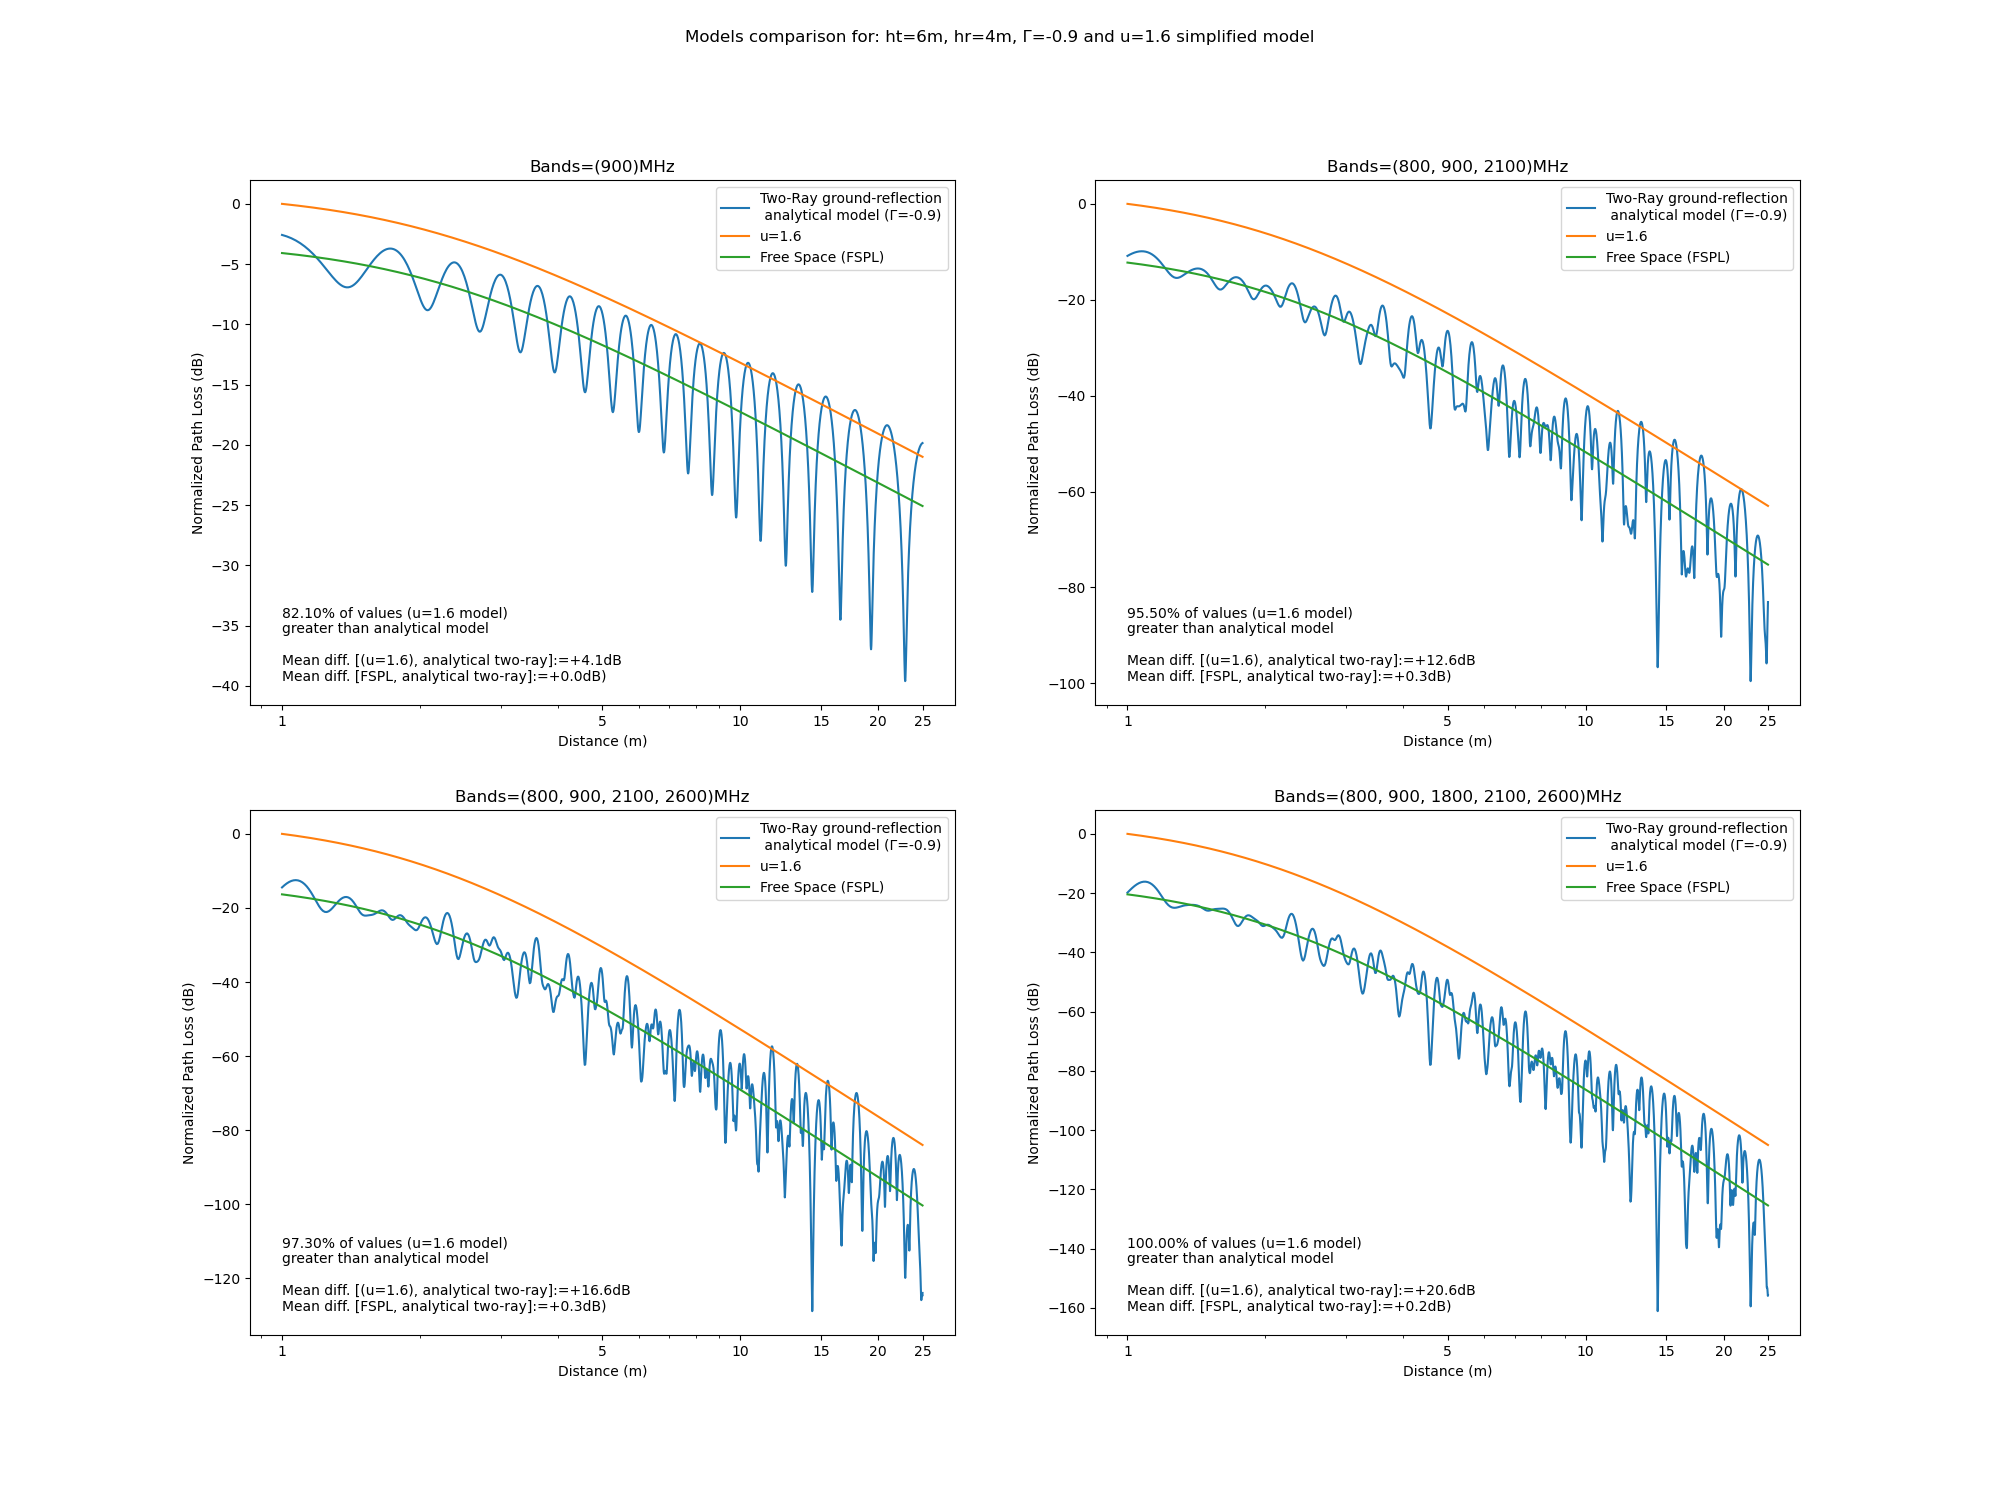
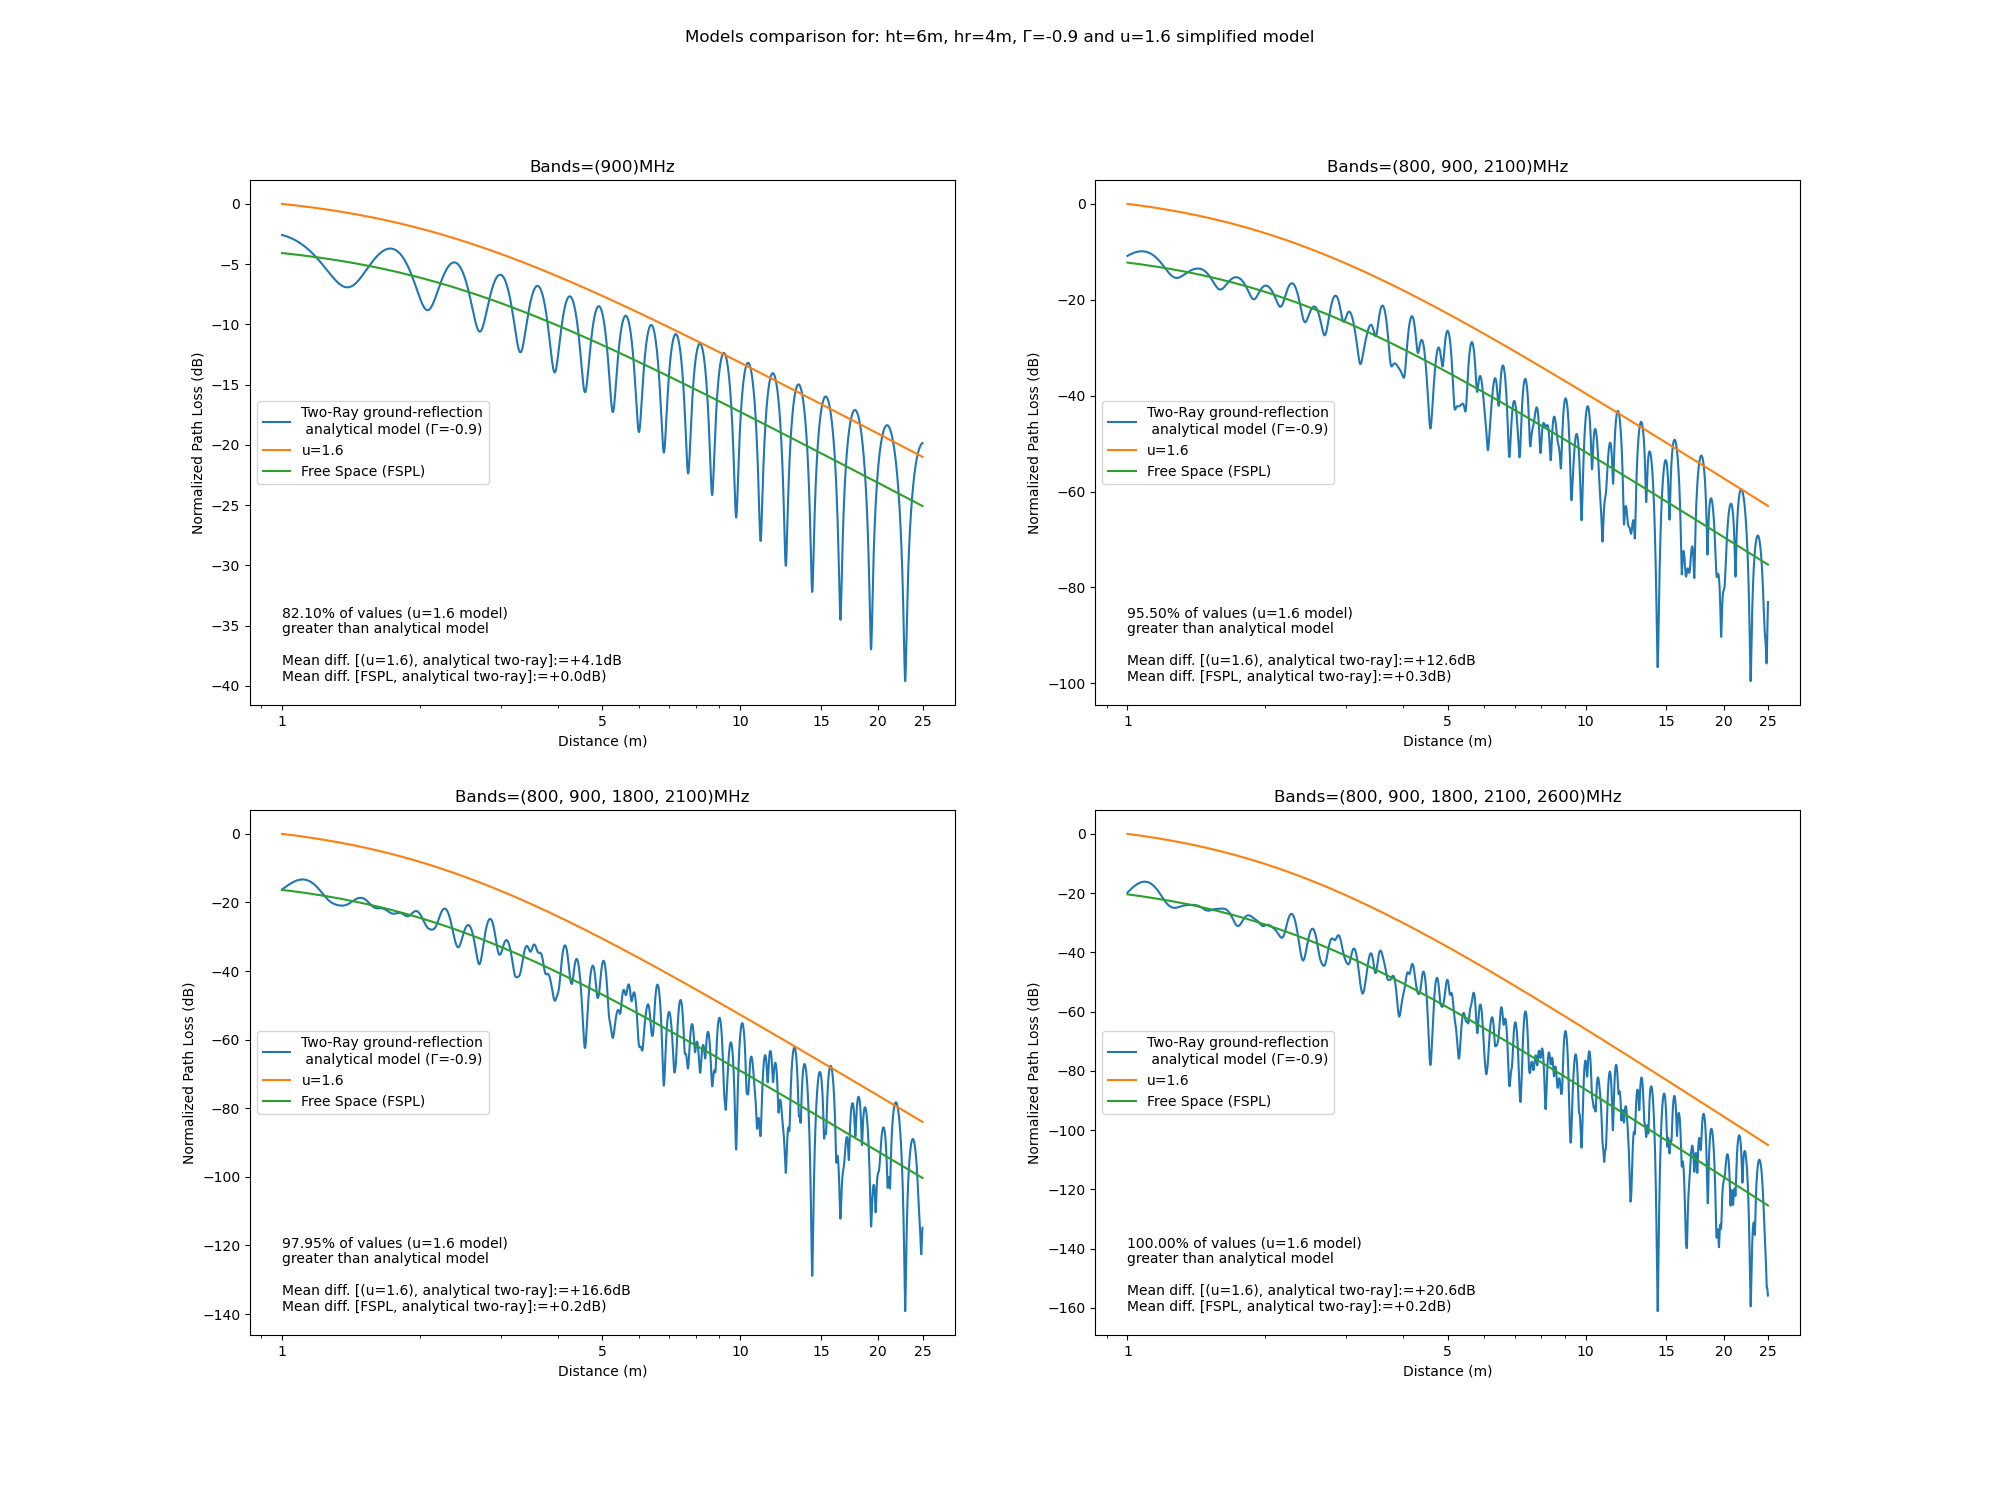
moved legend to fixed position center left

diff --git a/tworaymodel.py b/tworaymodel.py
@@ -5,7 +5,7 @@ import os
 # 4 set of bands to simulate (4 subplots)
 b1 = ['900']
 b2 = ['800', '900', '2100']
-b3 = ['800', '900', '2100', '2600']
+b3 = ['800', '900', '1800', '2100']
 b4 = ['800', '900', '1800', '2100', '2600']
 
 # u value used to simplified two-ray model, assuming that two rays are always combined coherently, with a reflection
@@ -13,7 +13,7 @@ b4 = ['800', '900', '1800', '2100', '2600']
 u = 1.6
 
 R = -0.9    # R (or Γ) reflection factor used in two-ray ground-reflection model (in general is
-            # dependent on the angle of incidence)
+          # dependent on the angle of incidence)
 ht = 6      # transmitter height
 hr = 4      # receiver height
 maxd = 25   # Maximum distance from transmitter (m)
@@ -62,7 +62,7 @@ for i, bands in enumerate(bandslist):
 
 
 
-    ax[i].legend((f'Two-Ray ground-reflection\n analytical model (Γ={R})', f'u={u}', 'Free Space (FSPL)'))
+    ax[i].legend((f'Two-Ray ground-reflection\n analytical model (Γ={R})', f'u={u}', 'Free Space (FSPL)'), loc=6)
     bandsstring = ', '.join(freq.astype(str))
     bandsstring = '(' + bandsstring + ')'
     fname = f'ht = {ht}m, hr={hr}m, Γ={R}, u={u}'
